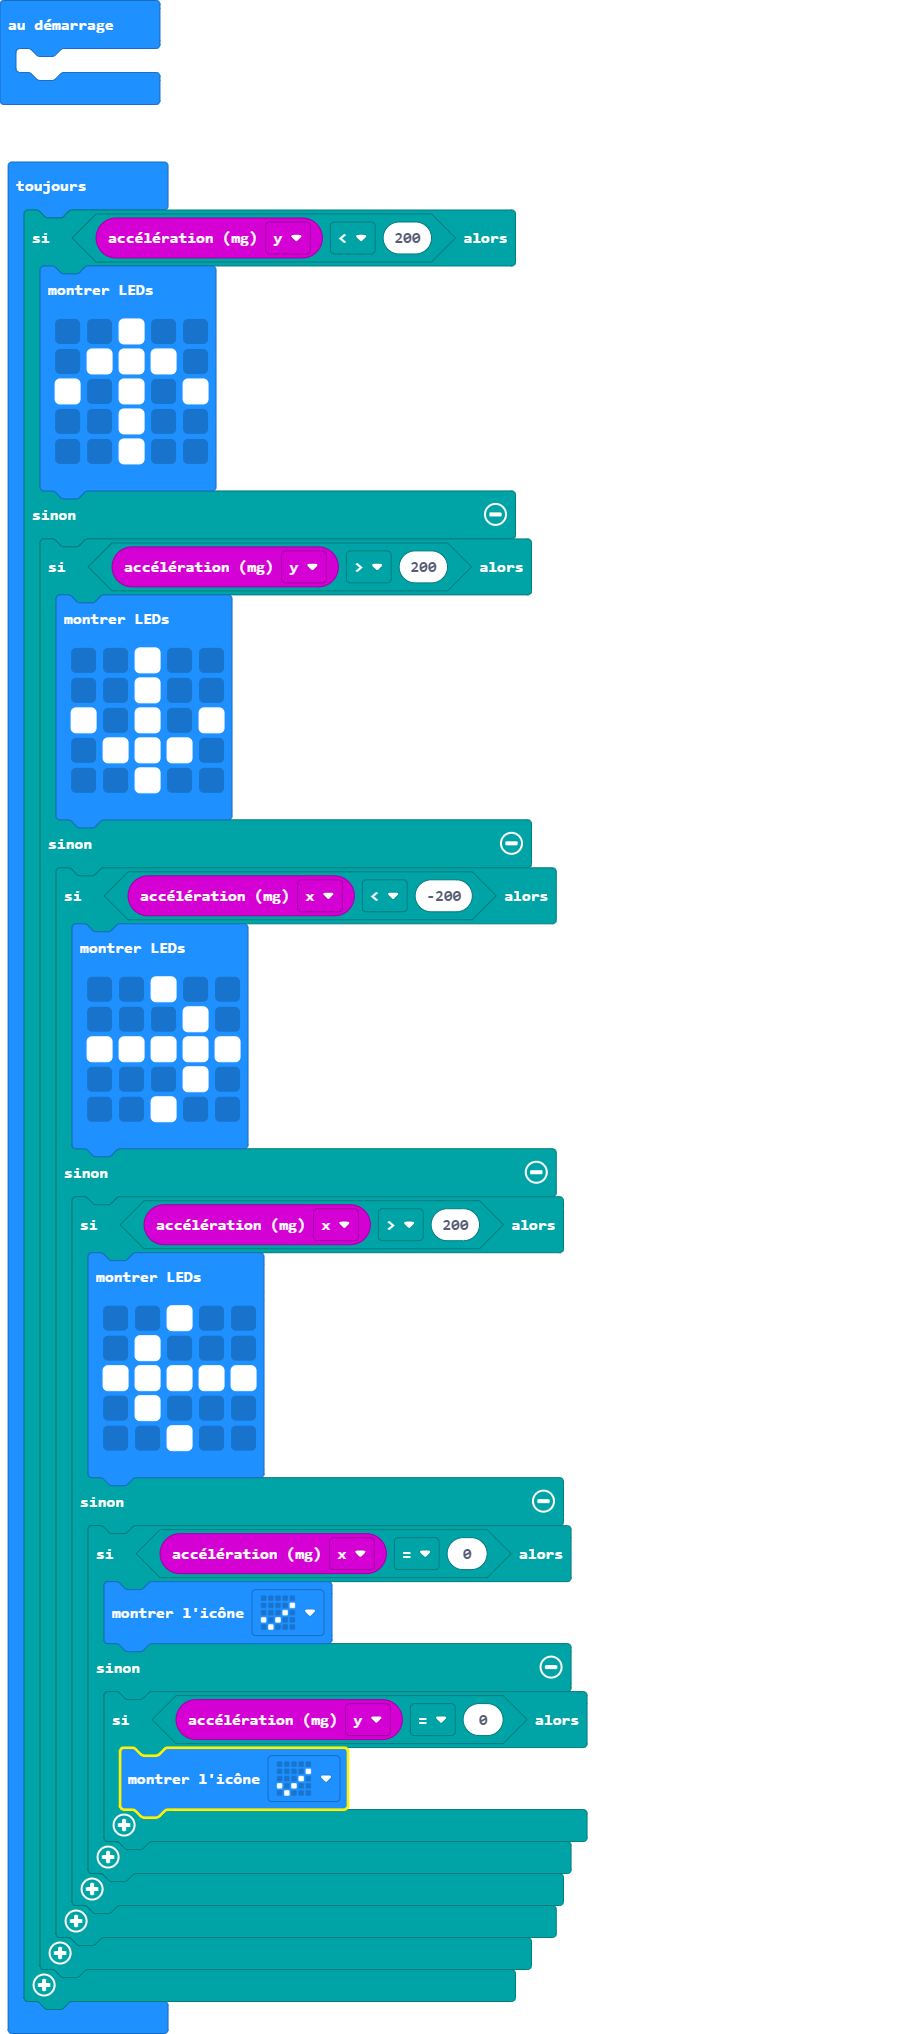
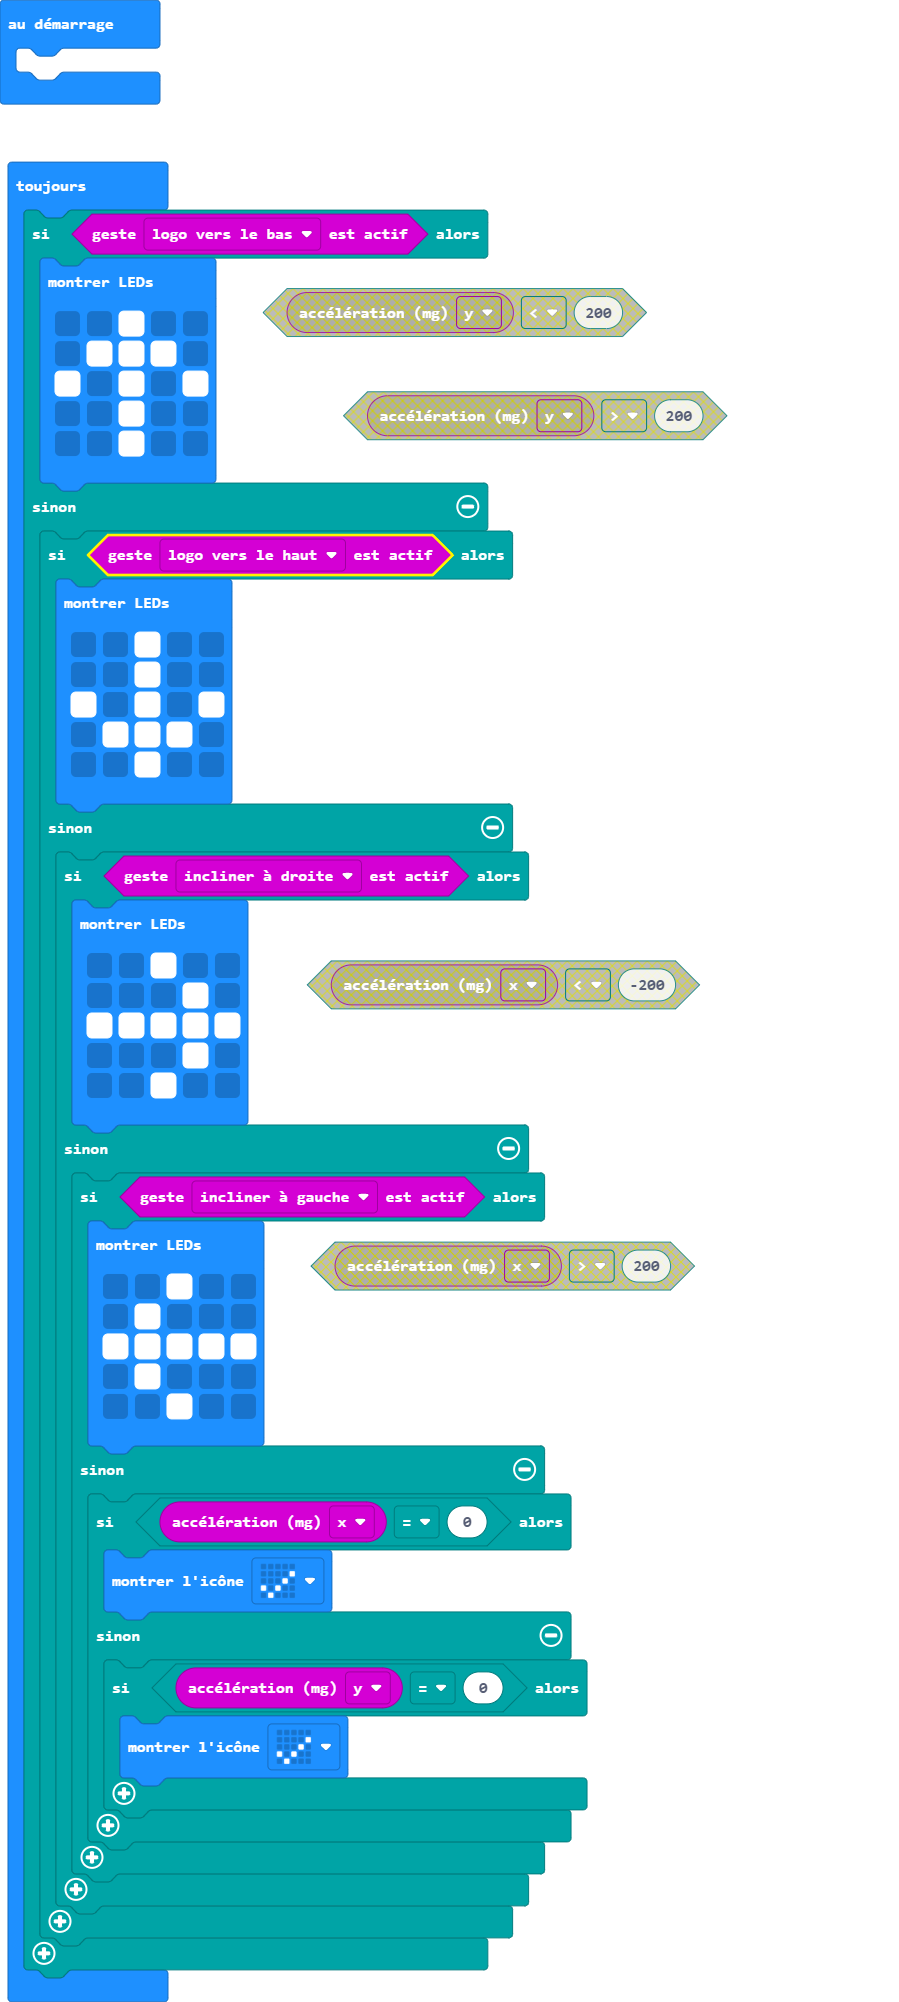
Mise à jour main.blocks, main.ts

Changed region(s): [[0.0311, 0.0619, 0.8098, 0.96], [0.5295, 0.8981, 0.6541, 0.991], [0.0311, 0.96, 0.0623, 0.991]]

diff --git a/main.ts b/main.ts
@@ -1,5 +1,5 @@
 basic.forever(function () {
-    if (input.acceleration(Dimension.Y) < 200) {
+    if (input.isGesture(Gesture.LogoDown)) {
         basic.showLeds(`
             . . # . .
             . # # # .
@@ -8,7 +8,7 @@ basic.forever(function () {
             . . # . .
             `)
     } else {
-        if (input.acceleration(Dimension.Y) > 200) {
+        if (input.isGesture(Gesture.LogoUp)) {
             basic.showLeds(`
                 . . # . .
                 . . # . .
@@ -17,7 +17,7 @@ basic.forever(function () {
                 . . # . .
                 `)
         } else {
-            if (input.acceleration(Dimension.X) < -200) {
+            if (input.isGesture(Gesture.TiltRight)) {
                 basic.showLeds(`
                     . . # . .
                     . . . # .
@@ -26,7 +26,7 @@ basic.forever(function () {
                     . . # . .
                     `)
             } else {
-                if (input.acceleration(Dimension.X) > 200) {
+                if (input.isGesture(Gesture.TiltLeft)) {
                     basic.showLeds(`
                         . . # . .
                         . # . . .
